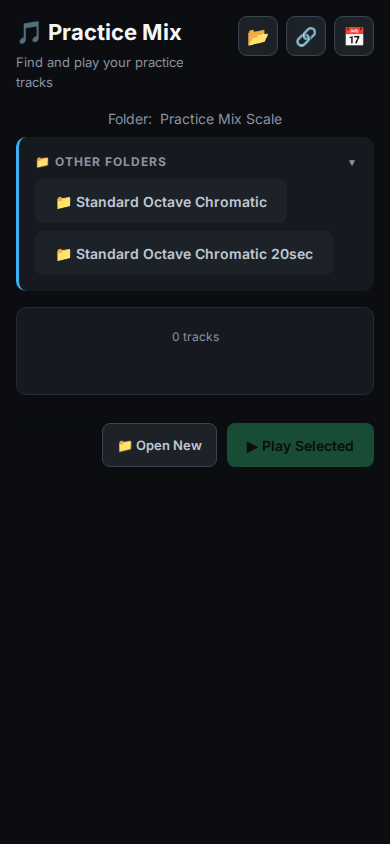
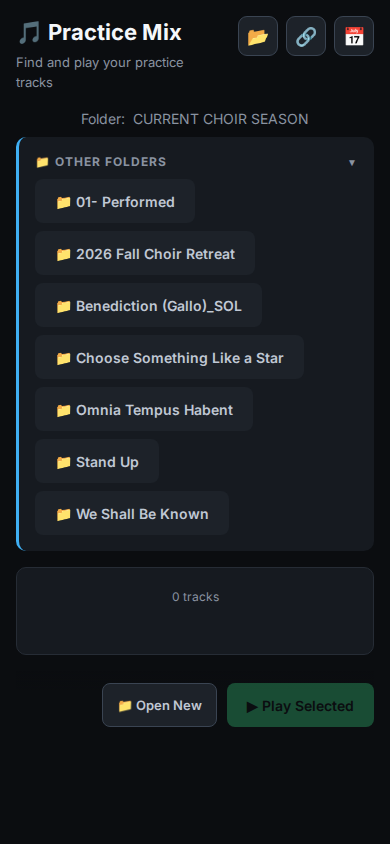
Publish PracticeMix PRODUCTION v1.6.14

diff --git a/pub/pmix/help.html b/pub/pmix/help.html
@@ -30,7 +30,6 @@
       border: 1px solid var(--border-strong); background: var(--surface-2); color: var(--text);
     }
     .btn-primary { background: var(--green); border-color: var(--green); color: #06130c; flex: 1 1 200px; }
-    .btn-secondary { flex: 1 1 140px; }
     .btn:focus-visible { outline: 2px solid var(--blue); outline-offset: 2px; }
     #help-close {
       position: absolute; top: 12px; right: 12px; width: 44px; height: 44px; min-height: 0; padding: 0;
@@ -45,16 +44,20 @@
     }
     .step p, .step ul { font-size: 15px; }
     .step ul { margin: 6px 0 0 20px; }
+    .text p + p { margin-top: 8px; }
     .step strong { color: var(--text); }
     .focus { color: var(--green); font-weight: 600; }
     figure { margin-top: 12px; text-align: center; }
-    img { display: block; max-width: 100%; height: auto; margin: 0 auto; border: 1px solid var(--border); border-radius: var(--radius); }
+    img { display: block; width: 240px; max-width: 100%; height: auto; margin: 0 auto; border: 1px solid var(--border); border-radius: var(--radius); }
     figcaption { font-size: 12px; color: var(--text-3); margin-top: 6px; }
     .tips { margin-top: 20px; }
     .tips h2 { font-size: 16px; color: var(--text); margin-bottom: 6px; }
     .tips ul { margin-left: 20px; font-size: 15px; }
     footer { margin-top: 20px; font-size: 12px; color: var(--text-3); text-align: center; }
-    @media (min-width: 720px) { figure img { max-width: 320px; } }
+    @media (min-width: 600px) {
+      .step-body { display: grid; grid-template-columns: 1fr 240px; gap: 20px; align-items: start; }
+      .step-body figure { margin-top: 0; }
+    }
     @media print { #help-close, .actions { display: none; } }
   </style>
 </head>
@@ -71,42 +74,53 @@
 
   <div class="actions">
     <a class="btn btn-primary" href="./" data-testid="help-open-app">Open Practice Mix</a>
-    <button type="button" class="btn btn-secondary" id="help-share" data-testid="help-share">Share by email</button>
   </div>
 
   <section class="step">
     <h2><span class="num">1</span>Open the app</h2>
-    <p>It opens on the current season folder. Tap a song's folder to go in.</p>
-    <figure>
-      <img src="help/folder.png" alt="The season folder with a list of song folders" data-testid="help-shot-folder" width="390" height="844">
-      <figcaption>Season folder: tap a song.</figcaption>
-    </figure>
+    <div class="step-body">
+      <div class="text">
+        <p>It opens on the current season folder. Tap a song's folder to go in.</p>
+      </div>
+      <figure>
+        <img src="help/folder.png" alt="The season folder with a list of song folders" data-testid="help-shot-folder" width="390" height="844">
+        <figcaption>Season folder: tap a song.</figcaption>
+      </figure>
+    </div>
   </section>
 
   <section class="step">
     <h2><span class="num">2</span>Pick your tracks</h2>
-    <p><span class="focus">Tap your own part first.</span> The first track you select is your <strong>focus track</strong> and plays at normal level.</p>
-    <p>Then tap the other parts or the accompaniment you want to sing against. These are <strong>background tracks</strong> and play quieter.</p>
-    <figure>
-      <img src="help/song.png" alt="A song folder with one focus track and two background tracks selected" data-testid="help-shot-song" width="390" height="844">
-      <figcaption>Song folder: your part first, then the others.</figcaption>
-    </figure>
+    <div class="step-body">
+      <div class="text">
+        <p><span class="focus">Tap your own part first.</span> The first track you select is your <strong>focus track</strong> and plays at normal level.</p>
+        <p>Then tap the other parts or the accompaniment you want to sing against. These are <strong>background tracks</strong> and play quieter.</p>
+      </div>
+      <figure>
+        <img src="help/song.png" alt="A song folder with one focus track and two background tracks selected" data-testid="help-shot-song" width="390" height="844">
+        <figcaption>Song folder: your part first, then the others.</figcaption>
+      </figure>
+    </div>
   </section>
 
   <section class="step">
     <h2><span class="num">3</span>Play Selected</h2>
-    <p>Tap <strong>▶ Play Selected</strong> to open the mixer, then practise:</p>
-    <ul>
-      <li><strong>Speed</strong> from 0.7x to 1.3x, with the pitch preserved</li>
-      <li><strong>Level and pan</strong> for each track</li>
-      <li><strong>Solo or mute</strong> any part</li>
-      <li><strong>Repeat</strong> with the Loop switch</li>
-      <li><strong>Export</strong> your mix as a WAV file</li>
-    </ul>
-    <figure>
-      <img src="help/mixer.png" alt="The mixer with transport, speed and per-track controls" data-testid="help-shot-mixer" width="390" height="844">
-      <figcaption>The mixer.</figcaption>
-    </figure>
+    <div class="step-body">
+      <div class="text">
+        <p>Tap <strong>▶ Play Selected</strong> to open the mixer, then practise:</p>
+        <ul>
+          <li><strong>Speed</strong> from 0.7x to 1.3x, with the pitch preserved</li>
+          <li><strong>Level and pan</strong> for each track</li>
+          <li><strong>Solo or mute</strong> any part</li>
+          <li><strong>Repeat</strong> with the Loop switch</li>
+          <li><strong>Export</strong> your mix as a WAV file</li>
+        </ul>
+      </div>
+      <figure>
+        <img src="help/mixer.png" alt="The mixer with transport, speed and per-track controls" data-testid="help-shot-mixer" width="390" height="844">
+        <figcaption>The mixer.</figcaption>
+      </figure>
+    </div>
   </section>
 
   <section class="tips">
@@ -142,17 +156,6 @@
     }
   });
 
-  document.getElementById('help-share').addEventListener('click', function () {
-    var appUrl = new URL('./', location.href).href;
-    var guideUrl = location.origin + location.pathname;
-    var text = 'Practice Mix lets you practise your choir part with the other parts mixed in the background.';
-    if (navigator.share) {
-      navigator.share({ title: 'Practice Mix', text: text, url: appUrl }).catch(function () {});
-      return;
-    }
-    var body = text + '\n\nOpen the app: ' + appUrl + '\nHow to use it: ' + guideUrl + '\n';
-    location.href = 'mailto:?subject=' + encodeURIComponent('Practice Mix') + '&body=' + encodeURIComponent(body);
-  });
 })();
 </script>
 </body>

diff --git a/pub/pmix/index.html b/pub/pmix/index.html
@@ -1276,10 +1276,10 @@ body {
  * first paint, and fetching a file to find out where to fetch files from is the round trip this
  * whole migration exists to remove.
  */
-var STATIC_BUILD_VERSION_ = "1.6.13";
+var STATIC_BUILD_VERSION_ = "1.6.14";
 var STATIC_ENV_LABEL_ = "PRODUCTION";
 var STATIC_WEBAPP_URL_ = "https://script.google.com/macros/s/AKfycbwPcnwln3A1KI0V9T9FWLxA-s5FLDQY9xmr9CXc_HPA_8oS9lXvXrhRnEmlCU0PB0QK/exec";
-var STATIC_BUILD_DATE_ = "2026-10-04T18:33:55.074Z";
+var STATIC_BUILD_DATE_ = "2026-10-04T19:21:24.878Z";
 
 /**
  * The stamp the sessionStorage folder cache is scoped by (atc-79j). On the HtmlService page this
